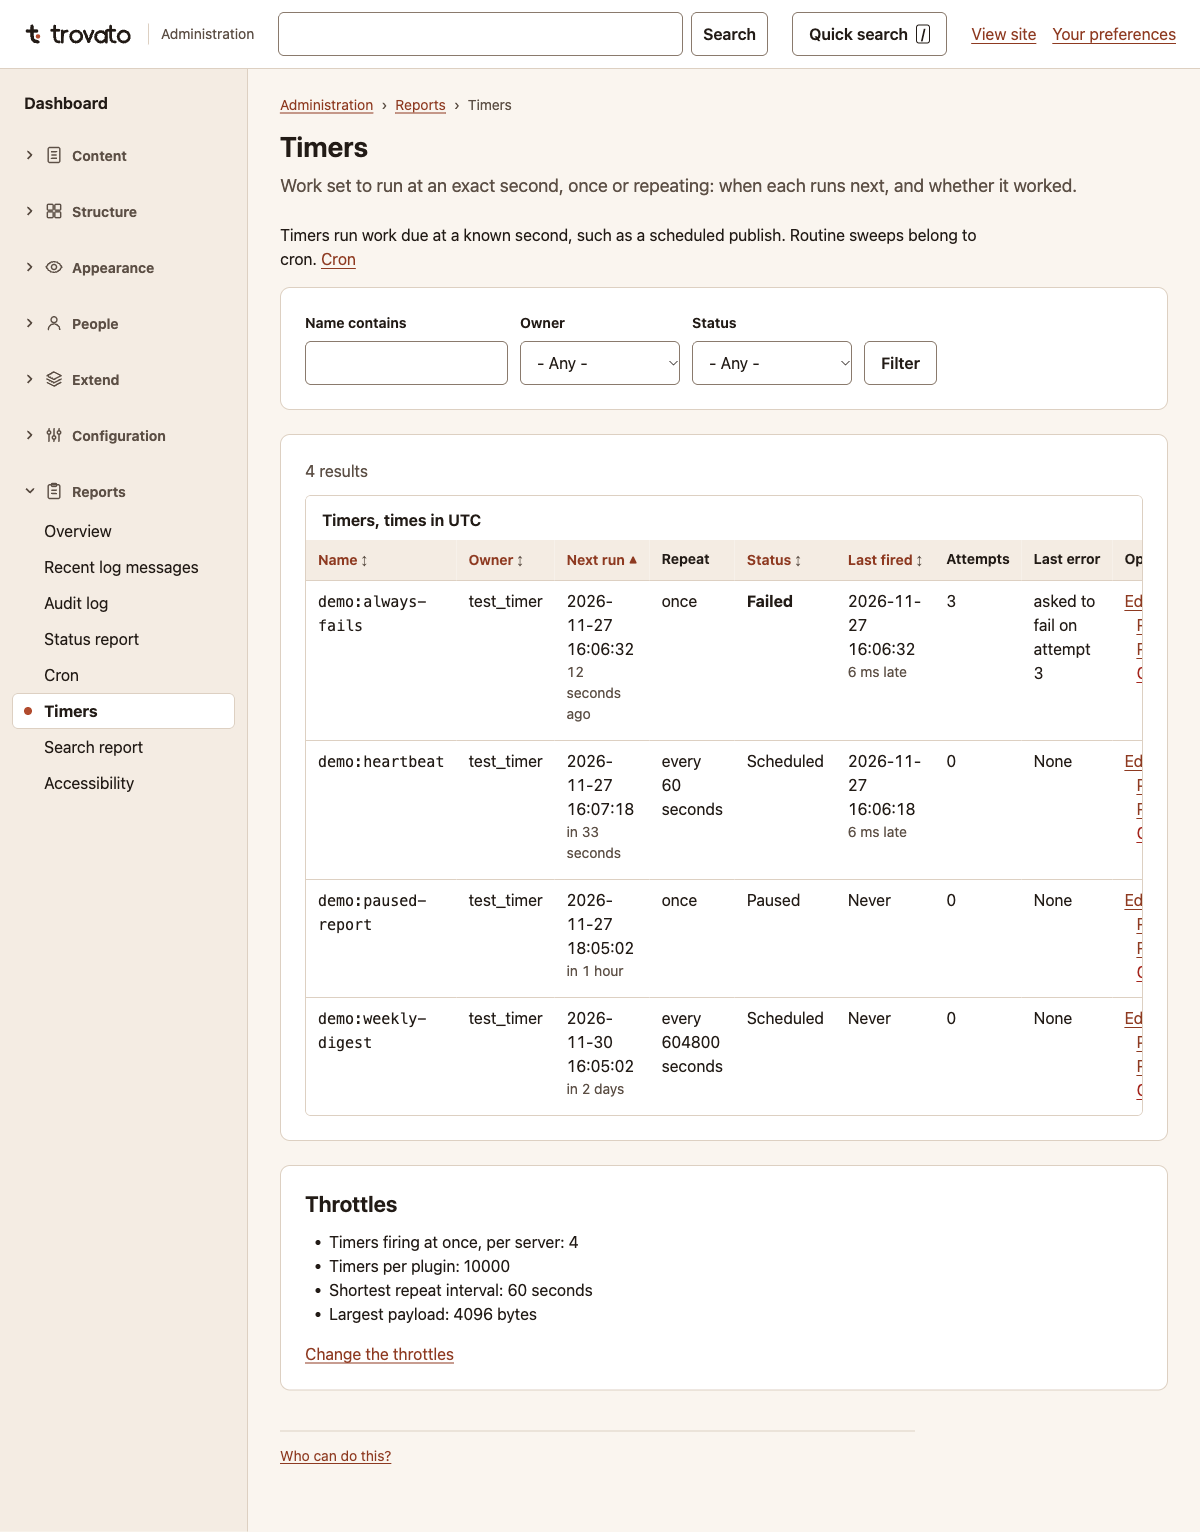
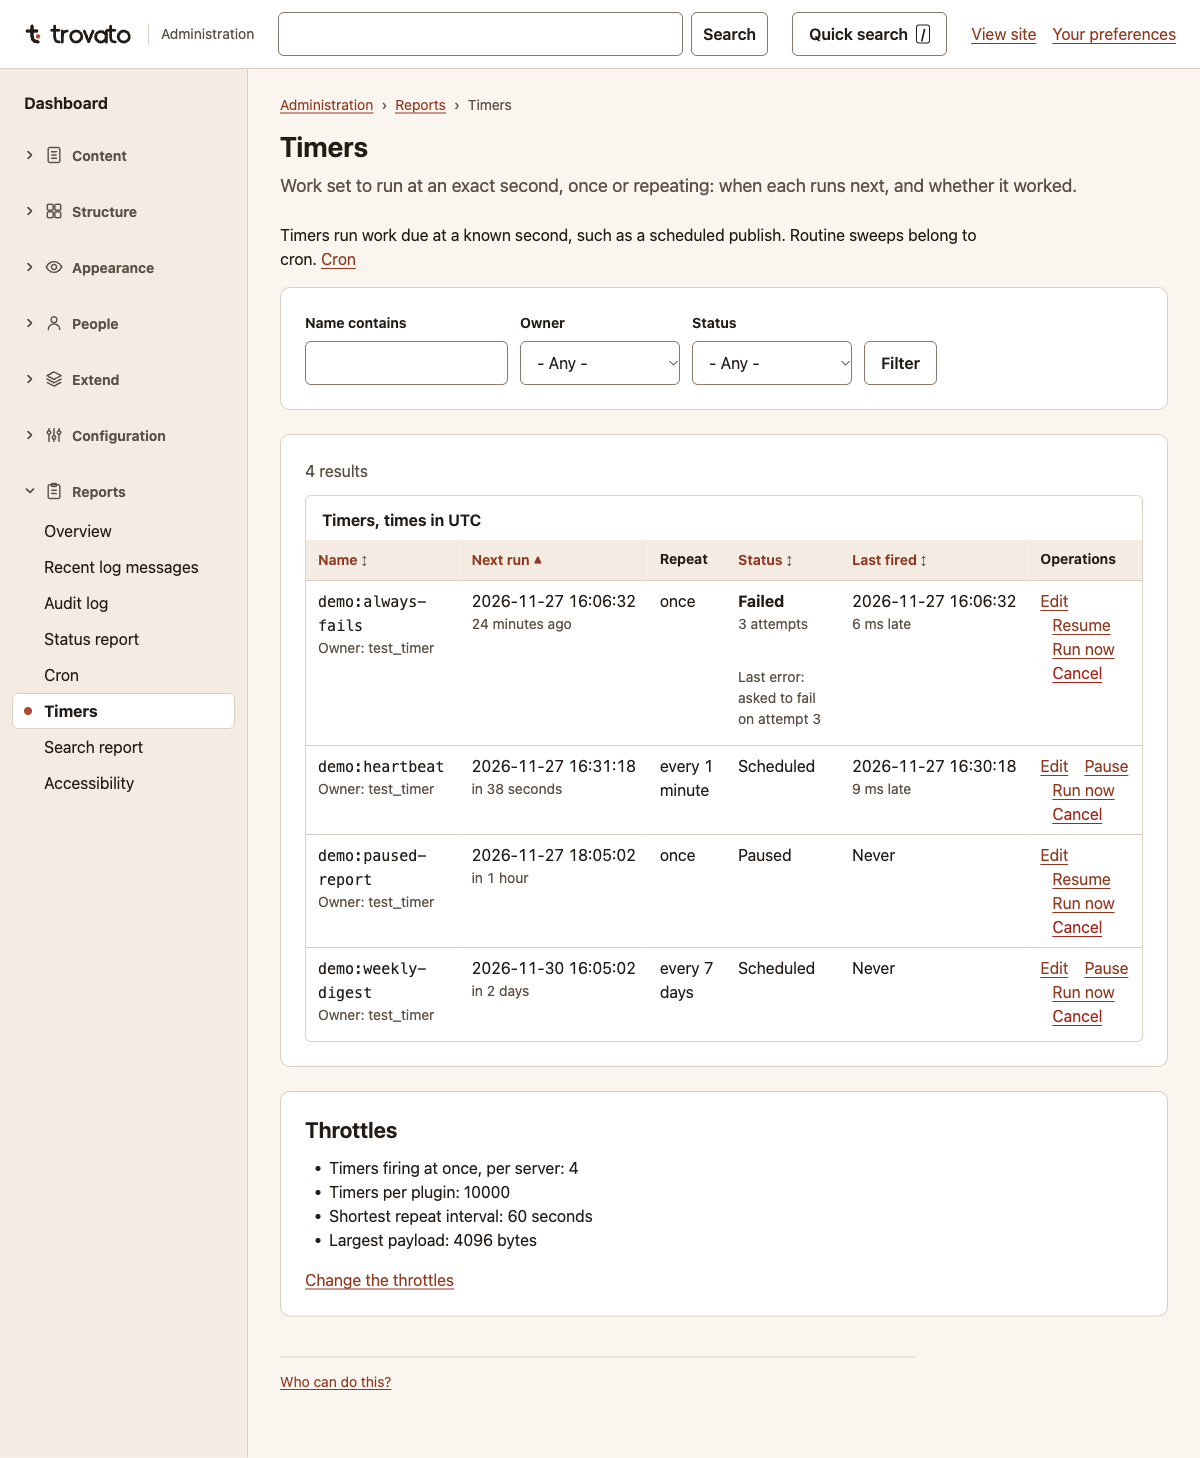
[B278] Timers report: owner under the name, screenshots

diff --git a/templates/admin/reports/timers.html b/templates/admin/reports/timers.html
@@ -30,7 +30,6 @@
             <thead>
                 <tr>
                     {{ list::sort_th(label=t(s="Name"), key="name", list=list) }}
-                    {{ list::sort_th(label=t(s="Owner"), key="owner", list=list) }}
                     {{ list::sort_th(label=t(s="Next run"), key="next", list=list) }}
                     <th scope="col">{{ t(s="Repeat") }}</th>
                     {{ list::sort_th(label=t(s="Status"), key="status", list=list) }}
@@ -41,8 +40,7 @@
             <tbody>
                 {% for timer in timers %}
                 <tr>
-                    <th scope="row"><code>{{ timer.name }}</code></th>
-                    <td>{{ timer.owner }}</td>
+                    <th scope="row"><code>{{ timer.name }}</code><br><span class="form-item__description">{{ t(s="Owner: {owner}", owner=timer.owner) }}</span></th>
                     <td>
                         <time class="timer-when" datetime="{{ timer.next_utc }}">{{ timer.next_local }}</time><br>
                         <span class="form-item__description">{% set r = timer.next_relative %}{% if r.future %}{% if r.unit == "second" %}{{ t(s="in {count} second", plural="in {count} seconds", count=r.count) }}{% elif r.unit == "minute" %}{{ t(s="in {count} minute", plural="in {count} minutes", count=r.count) }}{% elif r.unit == "hour" %}{{ t(s="in {count} hour", plural="in {count} hours", count=r.count) }}{% else %}{{ t(s="in {count} day", plural="in {count} days", count=r.count) }}{% endif %}{% else %}{% if r.unit == "second" %}{{ t(s="{count} second ago", plural="{count} seconds ago", count=r.count) }}{% elif r.unit == "minute" %}{{ t(s="{count} minute ago", plural="{count} minutes ago", count=r.count) }}{% elif r.unit == "hour" %}{{ t(s="{count} hour ago", plural="{count} hours ago", count=r.count) }}{% else %}{{ t(s="{count} day ago", plural="{count} days ago", count=r.count) }}{% endif %}{% endif %}</span>
